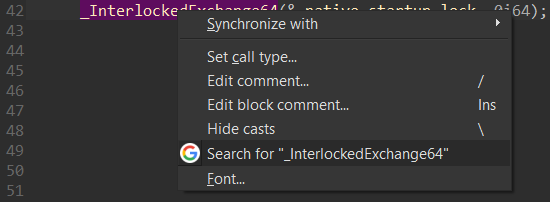
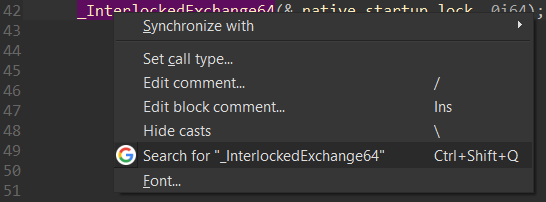
Add keyboard shortcut

diff --git a/search_from_ida.py b/search_from_ida.py
@@ -12,6 +12,7 @@ QUERY_URL_FORMAT = 'https://google.com/search?q="{}"'
 
 PLUGIN_NAME = ACTION_NAME = 'Search from IDA'
 ACTION_LABEL_FORMAT = 'Search for "{}"'
+ACTION_HOTKEY = 'Ctrl-Shift-Q'
 ICONS_DIRECTORY_NAME = 'icons'
 ICON_FILE_EXTENSION = '.png'
 SUPPORTED_BUILTIN_WINDOWS = (ida_kernwin.BWN_DISASM, ida_kernwin.BWN_PSEUDOCODE)
@@ -85,7 +86,8 @@ class SearchFromIda(ida_idaapi.plugin_t):
     def init(self):
         action_desc = ida_kernwin.action_desc_t(ACTION_NAME,
                                                 ACTION_NAME,
-                                                SearchHandler())
+                                                SearchHandler(),
+                                                ACTION_HOTKEY)
 
         ida_kernwin.register_action(action_desc)
         self._update_action_icon()
